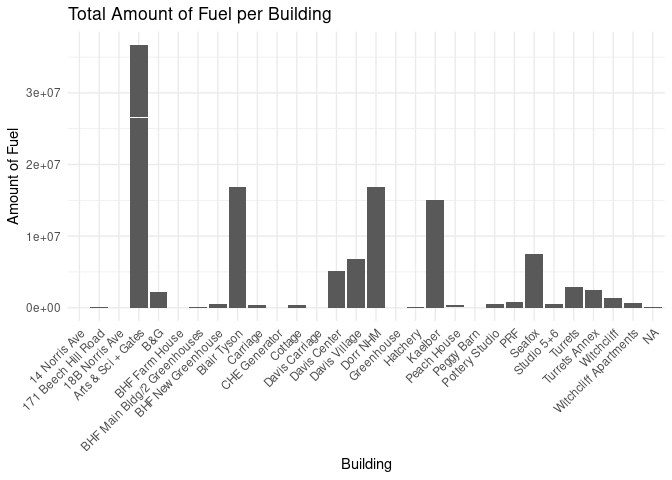
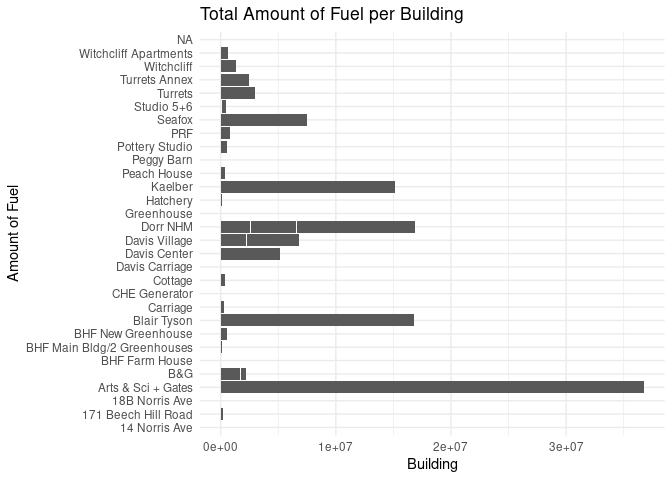
Clean data cleaning section

diff --git a/memo/memo.md b/memo/memo.md
@@ -57,6 +57,10 @@ mutate(Cost = case_when(
   ))
 ```
 
+### Step 2: Change Delivery Date
+
+### Step 3: Change tank numbers to only numeric
+
 ### Step 2: Totals
 
 ``` r
@@ -159,9 +163,9 @@ fuels %>%
 ### Plot 2: Total Amount of Fuel per Building
 
 ``` r
-ggplot(fuels, aes(x = Building, y = Total_Gallons_per_Building)) +
+ggplot(fuels, aes(y = Building, x = Total_Gallons_per_Building)) +
   geom_col() +
-  scale_x_discrete(guide = guide_axis(angle = 45)) +
+  #scale_x_discrete(guide = guide_axis(angle = 45)) +
   theme_minimal() +
   guides(color = FALSE) +
   labs(title = "Total Amount of Fuel per Building",
@@ -198,3 +202,14 @@ ggplot(fuels, aes(x = Year, y = Total_Gallons_per_Fuel_Type)) +
 ```
 
 ![](memo_files/figure-gfm/gallons_per_fuel_type-1.png)<!-- -->
+
+``` r
+fuels |>
+  group_by(Year) |>
+  mutate(Total_Gallons_per_year = sum(Gallons)) %>% 
+  ggplot(aes(x = Year, y = Total_Gallons_per_year, fill = Fuel_type))+
+  geom_col() +
+  theme_minimal()
+```
+
+![](memo_files/figure-gfm/gallons_per_fuel_type_per_year-1.png)<!-- -->
